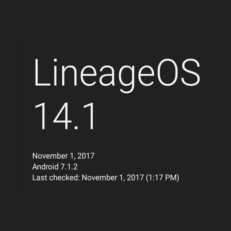
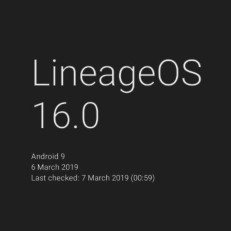
Update website for LineageOS 16.0

Changed region(s): [[0.1212, 0.2424, 0.8788, 0.4242], [0.1212, 0.6364, 0.7879, 0.7879], [0.1515, 0.4242, 0.4545, 0.5758]]

diff --git a/index.html b/index.html
@@ -168,7 +168,7 @@ MD5:    54:73:70:C6:4B:FE:31:88:ED:18:F5:DF:1E:08:EB:19
 SHA1:   C1:BE:BA:F7:9A:57:74:B7:5B:82:D5:0A:36:60:24:99:00:98:5D:C7
 SHA256: 8E:09:CB:8F:9F:28:DA:DB:A9:32:84:AD:7C:AC:F3:E7 \
         58:56:54:09:49:31:9D:FD:CB:16:BC:11:09:DE:25:B0</code></pre>
-        With 15.1, you have to use a Python script to verify the
+        With 15.1 and 16.0, you have to use a Python script to verify the
         signature, available <a
         href="https://github.com/lineageos4microg/update_verifier">
         here</a>.
@@ -222,17 +222,17 @@ SHA256: 8E:09:CB:8F:9F:28:DA:DB:A9:32:84:AD:7C:AC:F3:E7 \
         microG.</p>
       </section>
       <section>
-        <h3>Upgrade from LineageOS 14.1 to LineageOS 15.1</h3>
-        <p>To upgrade from LineageOS for microG 14.1 to LineageOS
-        for microG 15.1 it is not necessary to wipe your data, just
+        <h3>Upgrade from LineageOS 15.1 to LineageOS 16.0</h3>
+        <p>To upgrade from LineageOS for microG 15.1 to LineageOS
+        for microG 16.0 it is not necessary to wipe your data, just
         upgrade your TWRP bootloader and flash manually the latest
-        LineageOS for microG 15.1 zip.</p>
-        <p>To upgrade from LineageOS 14.1 to LineageOS for microG
-        15.1, first upgrade your TWRP bootloader, then upgrade to
-        LineageOS 15.1 and finally follow the <a href=
+        LineageOS for microG 16.0 zip.</p>
+        <p>To upgrade from LineageOS 15.1 to LineageOS for microG
+        16.0, first upgrade your TWRP bootloader, then upgrade to
+        LineageOS 16.0 and finally follow the <a href=
         "#migration">Migration from LineageOS</a> instructions.</p>
         <p>To upgrade from an unofficial LineageOS build to
-        LineageOS for microG 15.1, a factory reset is required,
+        LineageOS for microG 16.0, a factory reset is required,
         otherwise you can <a href=
         "https://lineage.microg.org/#faq16">create your own
         migration zip</a>, and follow the <a href=
